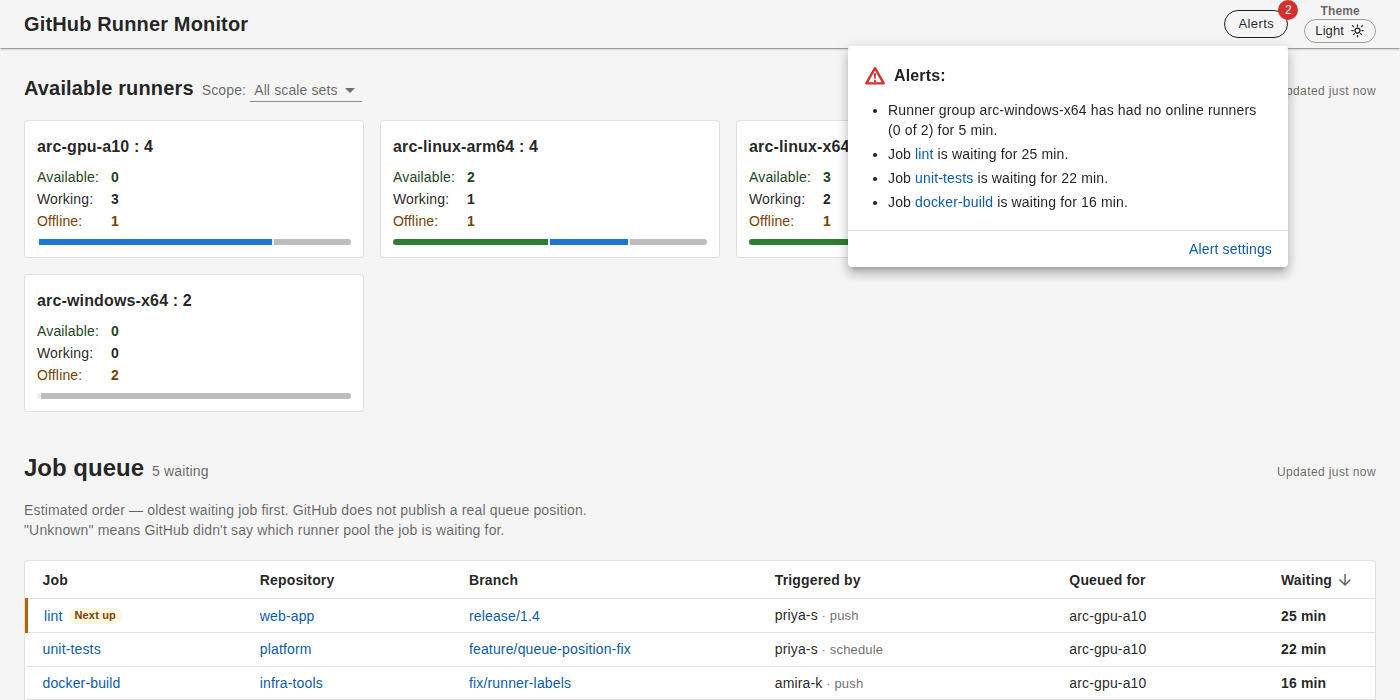
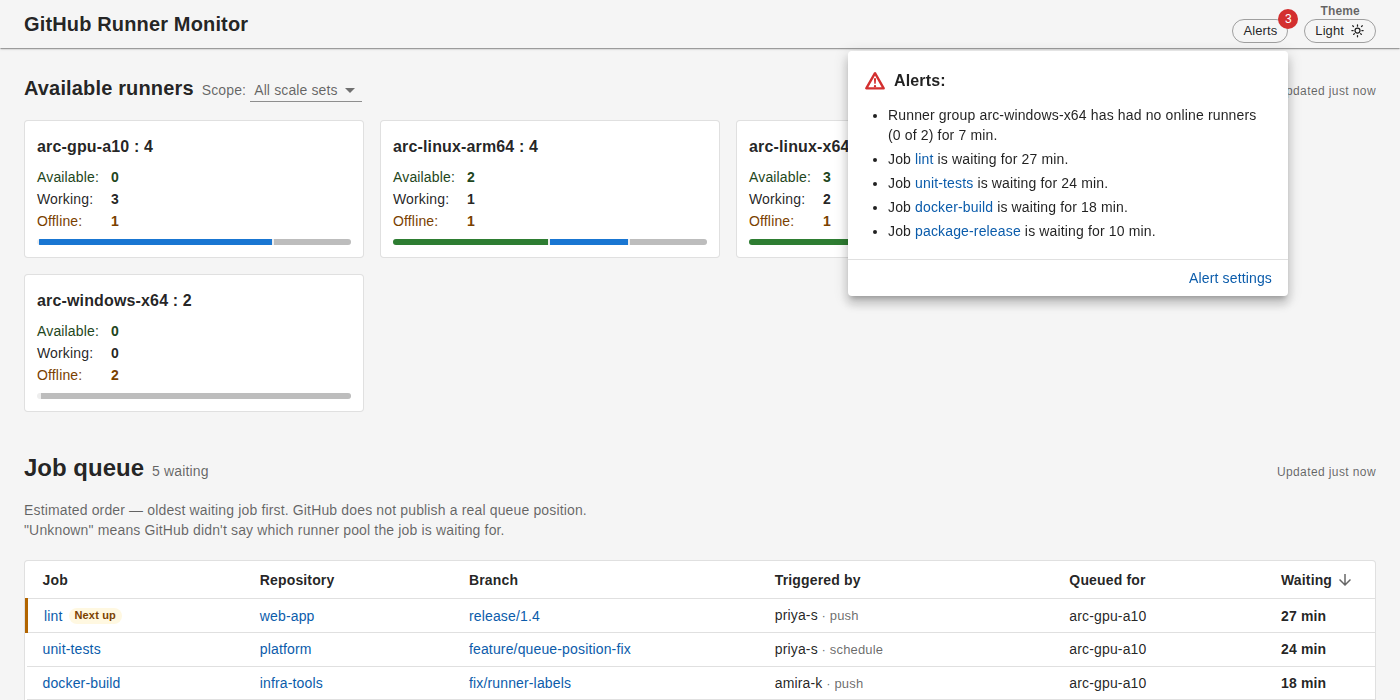
Align the Alerts button with the theme switch; refresh README, Helm docs and screenshots
Claude-Session: https://claude.ai/code/session_01J6D8vhiC3ZsDmU7iziQdTm

Changed region(s): [[0.5836, 0.0, 0.9521, 0.45]]

diff --git a/code/frontend/src/App.tsx b/code/frontend/src/App.tsx
@@ -1,6 +1,6 @@
 import { useCallback, useEffect, useMemo, useState } from 'react';
 import { ThemeProvider } from '@mui/material/styles';
-import { AppBar, Badge, Box, Button, Container, CssBaseline, Toolbar, Typography } from '@mui/material';
+import { AppBar, Badge, Box, Button, Container, CssBaseline, Toolbar, Typography, alpha } from '@mui/material';
 import { ThemeMode, createAppTheme } from './theme';
 import { useScaleSets } from './hooks/useScaleSets';
 import { useQueue } from './hooks/useQueue';
@@ -153,7 +153,7 @@ function App() {
               <Typography variant="h6" component="h1" sx={{ fontWeight: 700 }}>
                 {APP_HEADING}
               </Typography>
-              <Box sx={{ ml: 'auto', display: 'flex', alignItems: 'center', gap: 2 }}>
+              <Box sx={{ ml: 'auto', display: 'flex', alignItems: 'flex-end', gap: 2 }}>
                 <Badge
                   badgeContent={activeAlerts.length}
                   color="error"
@@ -170,7 +170,18 @@ function App() {
                         ? `Alerts — ${activeAlerts.length} active`
                         : 'Alerts'
                     }
-                    sx={{ textTransform: 'none', borderRadius: 999, py: 0.25 }}
+                    sx={(theme) => ({
+                      textTransform: 'none',
+                      borderRadius: 999,
+                      minWidth: 0,
+                      px: 1.25,
+                      py: 0.375,
+                      fontSize: 13,
+                      fontWeight: 500,
+                      lineHeight: 1.3,
+                      letterSpacing: 0.1,
+                      borderColor: alpha(theme.palette.text.primary, 0.35),
+                    })}
                   >
                     Alerts
                   </Button>

diff --git a/README.md b/README.md
@@ -1,6 +1,6 @@
 # GitHub Runner Monitor
 
-A live dashboard for self-hosted GitHub Actions runners. It shows how many runners are free, busy or offline in each pool, which jobs are waiting and in what order, what is running now, and what finished recently. Every job links out to GitHub for the full detail.
+A live dashboard for self-hosted GitHub Actions runners. It shows how many runners are free, busy or offline in each pool, which jobs are waiting and in what order, what is running now, and what finished recently. It also alerts when a job has waited too long or a runner pool has gone dark. Every job links out to GitHub for the full detail.
 
 <details open>
 <summary>Table of Contents</summary>
@@ -17,9 +17,9 @@ A live dashboard for self-hosted GitHub Actions runners. It shows how many runne
 
 ![The dashboard in the light theme, with the runner pools, the job queue, the running jobs and the recent history.](docs/images/dashboard-light.png)
 
-The top of the page, with the scale set picker and the theme switch:
+The top of the page, with the Alerts button (showing how many alerts are active) and the theme switch:
 
-![Close-up of the header, with the scale set picker and the Theme switch.](docs/images/header-controls.png)
+![Close-up of the header, with the Alerts button and its count, and the Theme switch.](docs/images/header-controls.png)
 
 The repositories and people in these pictures are made up. That is the fake data the app starts with.
 
@@ -53,6 +53,7 @@ To run it on Kubernetes instead, see [helm/README.md](helm/README.md).
 - **Job queue** — every waiting job, longest wait first, with the pool each is waiting for. Jobs GitHub named no pool for say "Unknown". GitHub does not publish a real queue position, so this order is worked out from when each job was created. The page says so.
 - **Running jobs** — what is on a runner at this moment and for how long.
 - **Recent history** — finished jobs with pass or fail, and the time each one finished, as supporting detail.
+- **Alerts** — the button in the header counts jobs stuck in the queue and runner pools with no online runner. Click it for the list. See [Alerts](#alerts).
 
 A job that ran on one of GitHub's own cloud runners, rather than a self-hosted one, shows its pool as "GitHub Actions (cloud)".
 

diff --git a/helm/README.md b/helm/README.md
@@ -30,6 +30,38 @@ The frontend's nginx forwards `/api` to a Service named exactly `backend` — th
 
 By default neither release makes itself reachable from outside the cluster. Turn on `ingress.enabled` in `values-frontend.yaml` and fill in a real host, or `kubectl port-forward svc/frontend 8080:80` to look at it locally.
 
+## Alerts
+
+The alert thresholds and the optional webhook are plain environment variables in `values-backend.yaml`, under `deployment.env.regular` (`ALERT_QUEUE_WAIT_MINUTES`, `ALERT_RUNNER_GROUP_OFFLINE_MINUTES`, `ALERT_WEBHOOK_URL` and friends — see the main [README](../README.md#alerts)). Override them at install time like any other value:
+
+```bash
+helm upgrade --install runner-monitor-backend ./chart \
+  -f values-backend.yaml \
+  --set deployment.env.regular.ALERT_QUEUE_WAIT_MINUTES=20 \
+  --set deployment.env.regular.ALERT_RUNNER_GROUP_OFFLINE_MINUTES=15
+```
+
+These are the starting values. They can be changed later from the page, and a change made there is saved next to the job list in `JOB_STATE_S3_BUCKET` and wins over the Helm value for that setting until someone presses **Reset to deployment values**. Set `ALERT_SETTINGS_EDITABLE: "false"` to keep the Helm values fixed.
+
+A webhook URL usually contains a secret. Rather than putting it in the values file, add it to the existing secret and reference it the same way as the token:
+
+```bash
+kubectl create secret generic github-runner-monitor-token \
+  --from-literal=token=<your-fine-grained-token> \
+  --from-literal=webhookSecret=<the-organisation-webhook-secret> \
+  --from-literal=alertWebhookUrl=<https://hooks.example.com/...> \
+  --dry-run=client -o yaml | kubectl apply -f -
+```
+
+```yaml
+    fromSecrets:
+    - envName: ALERT_WEBHOOK_URL
+      secretName: github-runner-monitor-token
+      secretKey: alertWebhookUrl
+```
+
+The backend needs outbound HTTPS to the webhook's host. If you turn on `networkpolicy`, allow that egress.
+
 ## Check the output before installing
 
 ```bash
